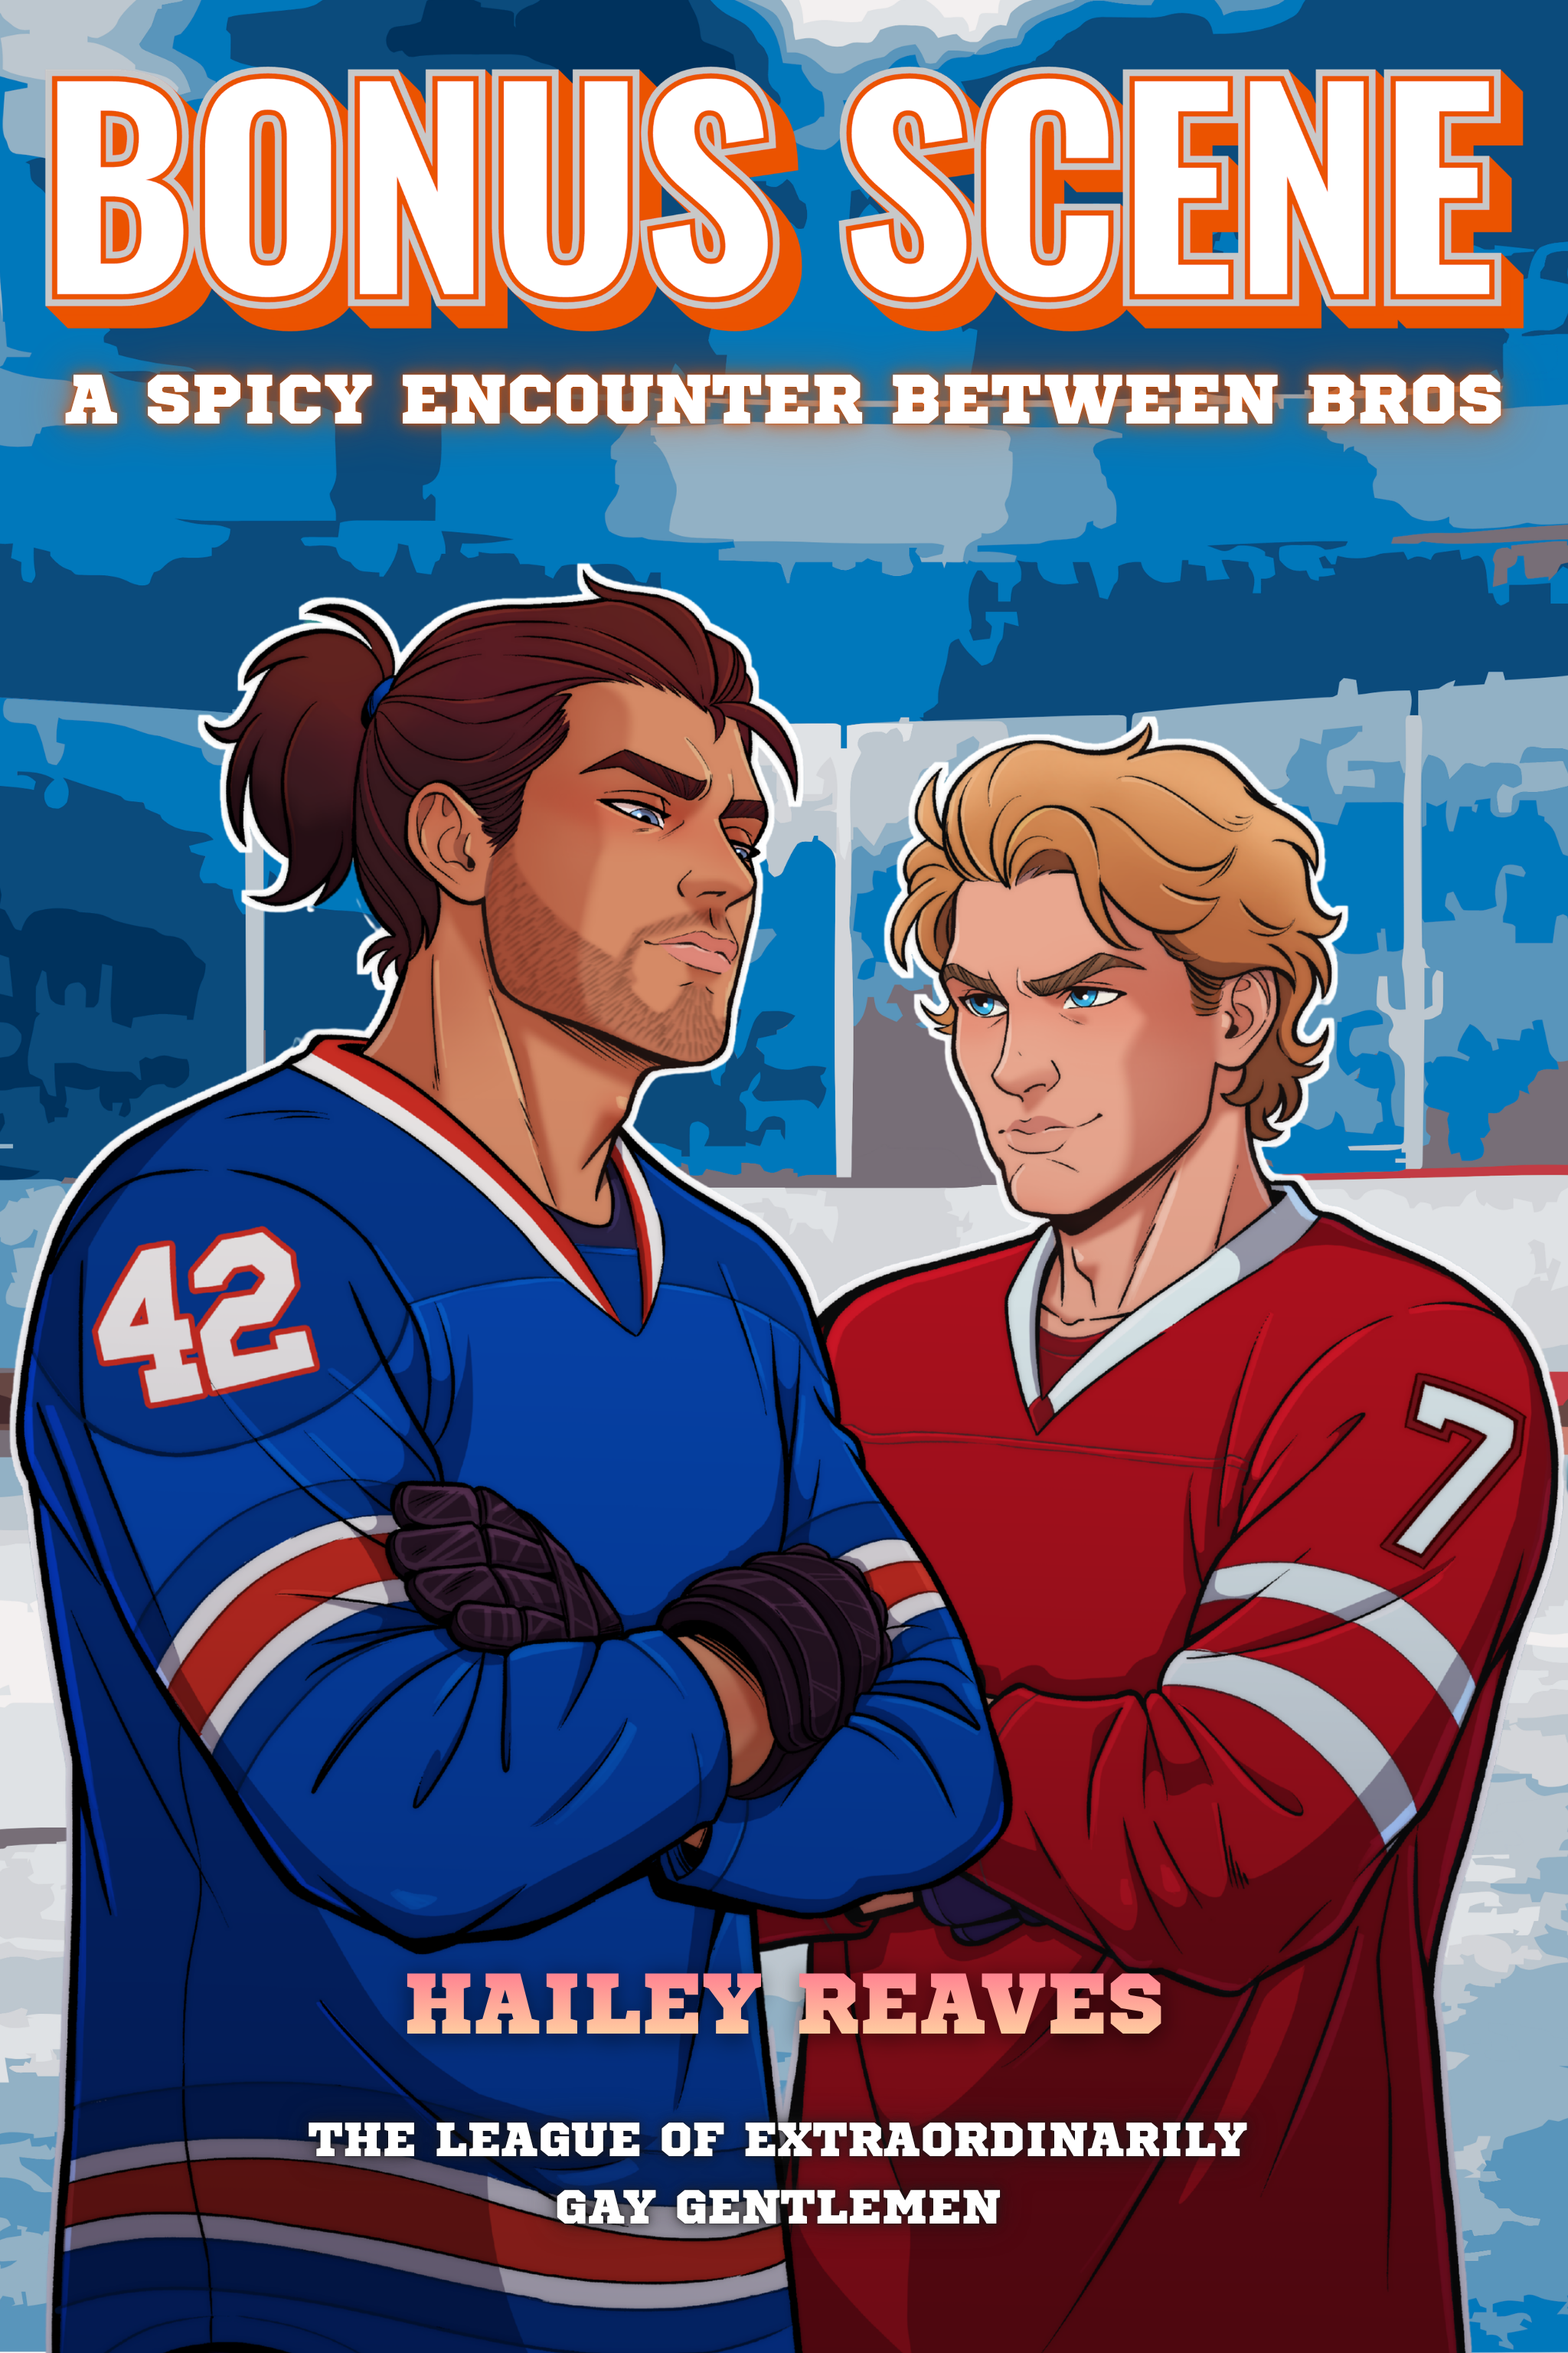
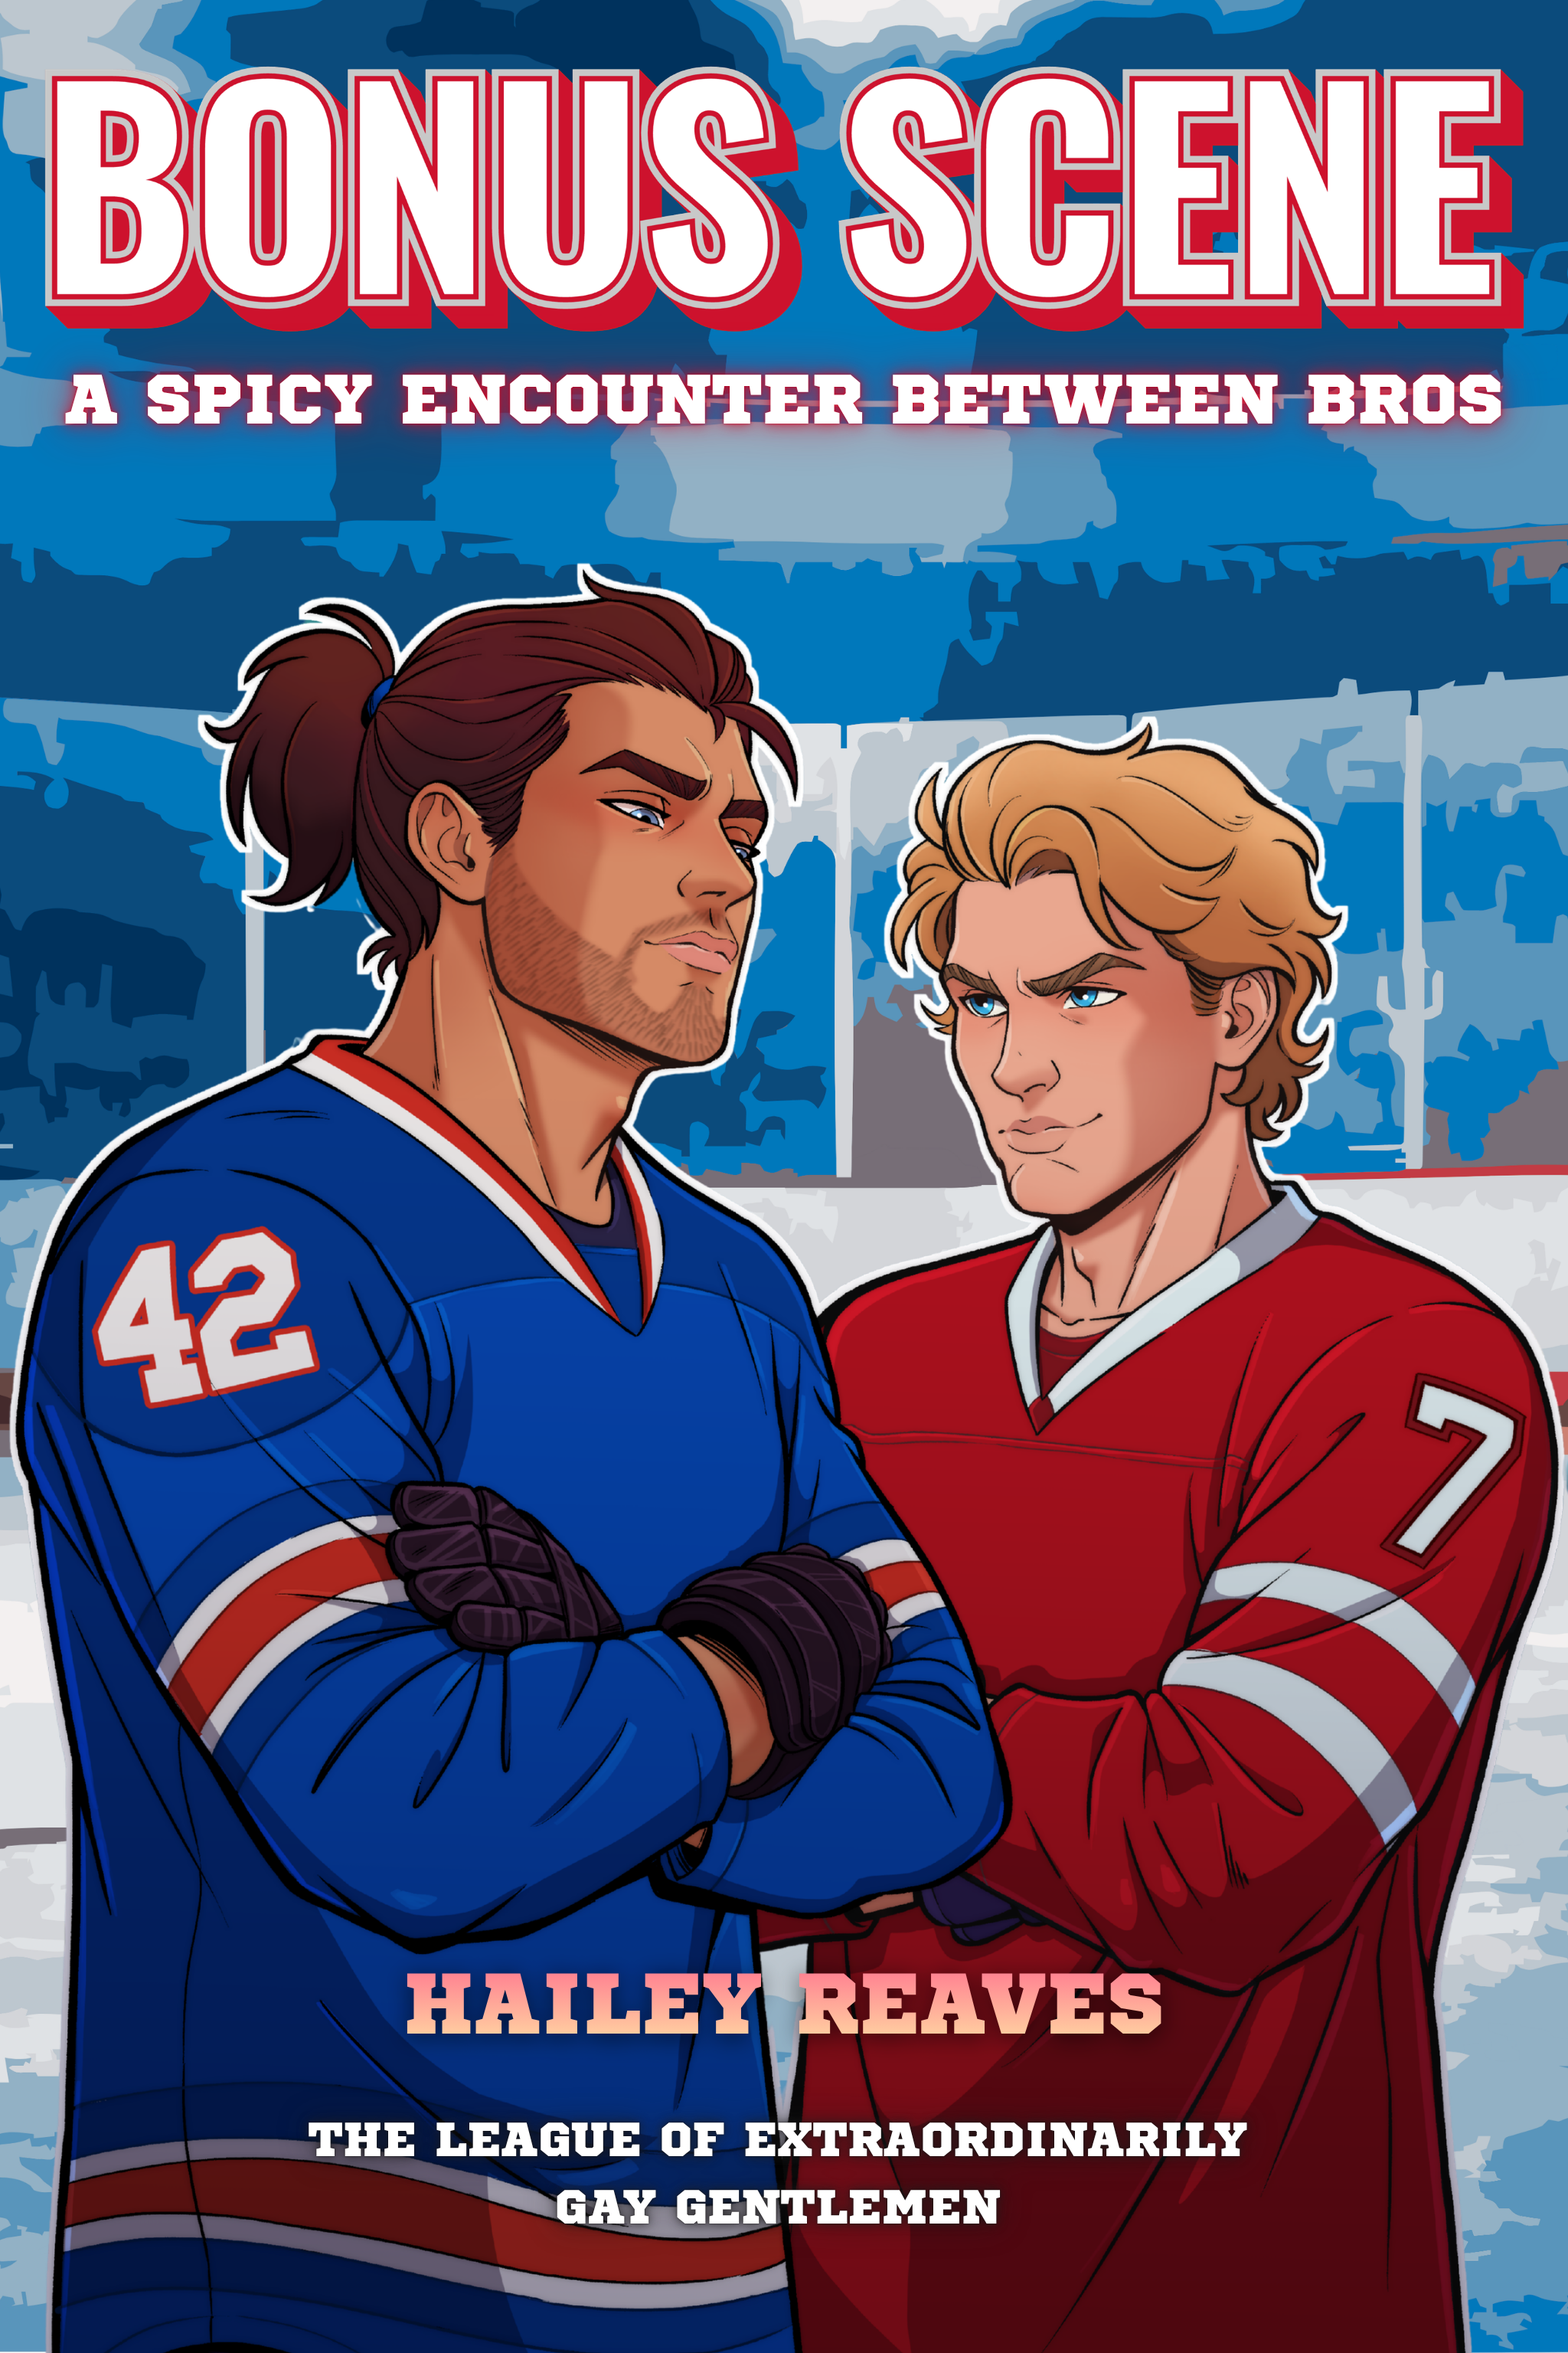
image

Changed region(s): [[0.0312, 0.0312, 0.9688, 0.1875]]

diff --git a/src/copy/reaves.js b/src/copy/reaves.js
@@ -62,7 +62,7 @@ const bonus_two = "Download it free when you join the Hailey Reaves newsletter -
 const bonus_link = "https://lizshipton.com/hailey-reaves-newsletter";
 const bonus_text = "get it FREE";
 const bonus_mobile_text = "get it"
-const bonus_button_color = "Orange";
+const bonus_button_color = "Red";
 
 // 
 
